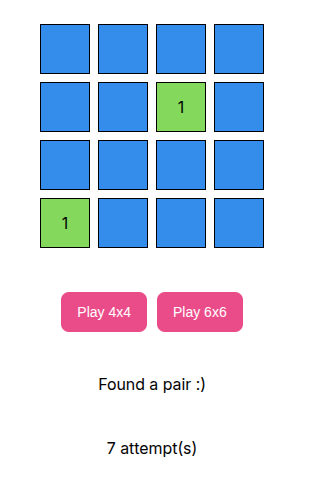
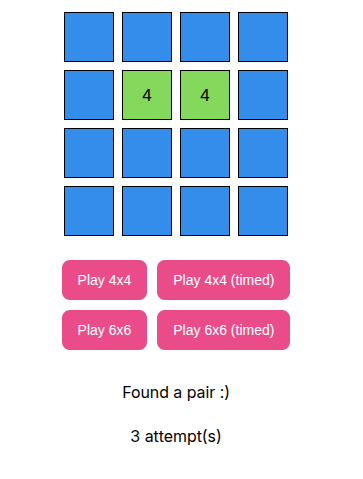
Add timed games

Changed region(s): [[0.1161, 0.0, 0.871, 0.7307], [0.3194, 0.7599, 0.6677, 0.8476], [0.3484, 0.8768, 0.6387, 0.9353]]

diff --git a/app/routes/home.tsx b/app/routes/home.tsx
@@ -1,5 +1,6 @@
 import type { Route } from "./+types/home";
-import { Tile } from "../tile/tile";
+import { Tile } from "../components/tile";
+import Timer from "../components/timer";
 
 import { useState } from 'react';
 import { Form } from 'react-router';
@@ -26,6 +27,11 @@ export async function clientLoader() {
     }
     const numbers = (height * width) / 2 
 
+    let showtimer = localStorage.getItem("showtimer");
+    if(showtimer == null) {
+        showtimer = "none";
+    }
+
     // create array with numbers twice
     var numsOne = Array.from({length: numbers}, (e, i)=> i);
     var numsTwo = Array.from({length: numbers}, (e, i)=> i);
@@ -47,7 +53,7 @@ export async function clientLoader() {
     let currentlyClicked = Array(height*width).fill(0); // stores position of clicked tiles
     let index = 0; // for assigning keys
 
-    return {ranNums, height, width, tilesClicked, matches, currentlyClicked, index};
+    return {ranNums, height, width, tilesClicked, matches, currentlyClicked, index, showtimer};
 }
 
 
@@ -56,9 +62,9 @@ export async function clientAction({
 }: Route.ClientActionArgs) {
 
     let formData = await request.formData();
-    let action = formData.get("action");
+    let action = formData.get("action") as String;
 
-    if(action === "size6") {
+    if(action.includes("size6")) {
         localStorage.setItem("height", "6");
         localStorage.setItem("width", "6");
     }
@@ -67,16 +73,24 @@ export async function clientAction({
         localStorage.setItem("width", "4");
     }
 
+    if(action!.includes("timer")) {
+        localStorage.setItem("showtimer", "flex");
+    }
+    else {
+        localStorage.setItem("showtimer", "none");
+    }
+
     window.location.reload();
 }
 
 
 export default function Home({loaderData}: Route.ComponentProps) {
 
-    let {ranNums, height, width, tilesClicked, matches, currentlyClicked, index} = loaderData;
+    let {ranNums, height, width, tilesClicked, matches, currentlyClicked, index, showtimer} = loaderData;
     const [canClickMore, setCanClickMore] = useState(true);
     const [message, setMessage] = useState("");
     const [attempts, setAttempts] = useState(0);
+    const [complete, setComplete] = useState(false);
 
     // get a row at a time of length width
     const arrayChunk = (arr: any, n: number) => {
@@ -134,6 +148,7 @@ export default function Home({loaderData}: Route.ComponentProps) {
 
         // Have we won?
         if (matches.length === (width * height)) {
+            setComplete(true);
             setMessage("Congratulations!!!!");
         }
   }
@@ -163,12 +178,25 @@ export default function Home({loaderData}: Route.ComponentProps) {
             </div>
             <div className="block">
                 <Form method="post">
-                    <button type="submit" name="action" value="size4">Play 4x4</button>
-                    <button type="submit" name="action" value="size6">Play 6x6</button>
+                    <table>
+                        <tbody>
+                            <tr>
+                                <td className="button"><button type="submit" name="action" value="size4">Play 4x4</button></td>
+                                <td className="button"><button type="submit" name="action" value="size4-timer">Play 4x4 (timed)</button></td>
+                            </tr>
+                            <tr>
+                                <td className="button"><button type="submit" name="action" value="size6">Play 6x6</button></td>
+                                <td className="button"><button type="submit" name="action" value="size6-timer">Play 6x6 (timed)</button></td>
+                            </tr>
+                        </tbody>
+                    </table>
                 </Form>
             </div>
             <div className="block">{message ? message : "Find all the pairs to win."}</div>
             <div className="block">{attempts + " attempt(s)"}</div>
+            <div className="block" id="timer" style={{"display": showtimer}}>
+                <Timer start={Date.now()} complete={complete} />
+            </div>
         </div>
     );
 }

diff --git a/app/components/timer.tsx b/app/components/timer.tsx
@@ -1,0 +1,34 @@
+import { useState, useEffect } from 'react';
+
+const Timer = (props: any) => {
+    const [hours, setHours] = useState(0);
+    const [minutes, setMinutes] = useState(0);
+    const [seconds, setSeconds] = useState(0);
+
+    const start = props.start;
+    const complete = props.complete;
+
+    const getTime = (start: any) => {
+        const time =  Date.now() - start;
+
+        setHours(Math.floor((time / (1000 * 60 * 60)) % 24));
+        setMinutes(Math.floor((time / 1000 / 60) % 60));
+        setSeconds(Math.floor((time / 1000) % 60));
+    };
+
+    useEffect(() => {
+        const interval = setInterval(() => getTime(start), 1000);
+        if(complete) {
+            clearInterval(interval);
+        }
+        return () => clearInterval(interval);
+    }, [complete]);
+
+    return (
+        <div role="timer">
+            <p id="timetaken">{hours>0 && hours+" hour(s) "} {minutes>0 && minutes+" minute(s) "} {seconds} seconds</p>
+        </div>
+    );
+};
+
+export default Timer;

diff --git a/app/app.css b/app/app.css
@@ -19,8 +19,12 @@ table {
     margin-bottom: "8px"
 }
 
+.button {
+    padding-bottom: 10px;
+}
+
 .block {
-    padding-top: 40px;
+    padding-top: 20px;
     display: flex;
     justify-content: center;
     align-items: center;

diff --git a/README.md b/README.md
@@ -7,6 +7,7 @@ A game of matching tiles. Find all the matches to win.
 Features:
 - Choose from a 4x4 or a 6x6 board
 - Shows how many attempts you took
+- Option of timed games
 
 ## Screenshots
 
@@ -15,6 +16,10 @@ Features:
 ![The 4x4 board](screenshots/the_board4x4.png?raw=true)
 
 ![The 6x6 board](screenshots/the_board6x6.png?raw=true)
+
+![The 4x4 board (timed)](screenshots/the_board4x4_timed.png?raw=true)
+
+![The 6x6 board (timed)](screenshots/the_board6x6_timed.png?raw=true)
 
 ### Found a pair
 
